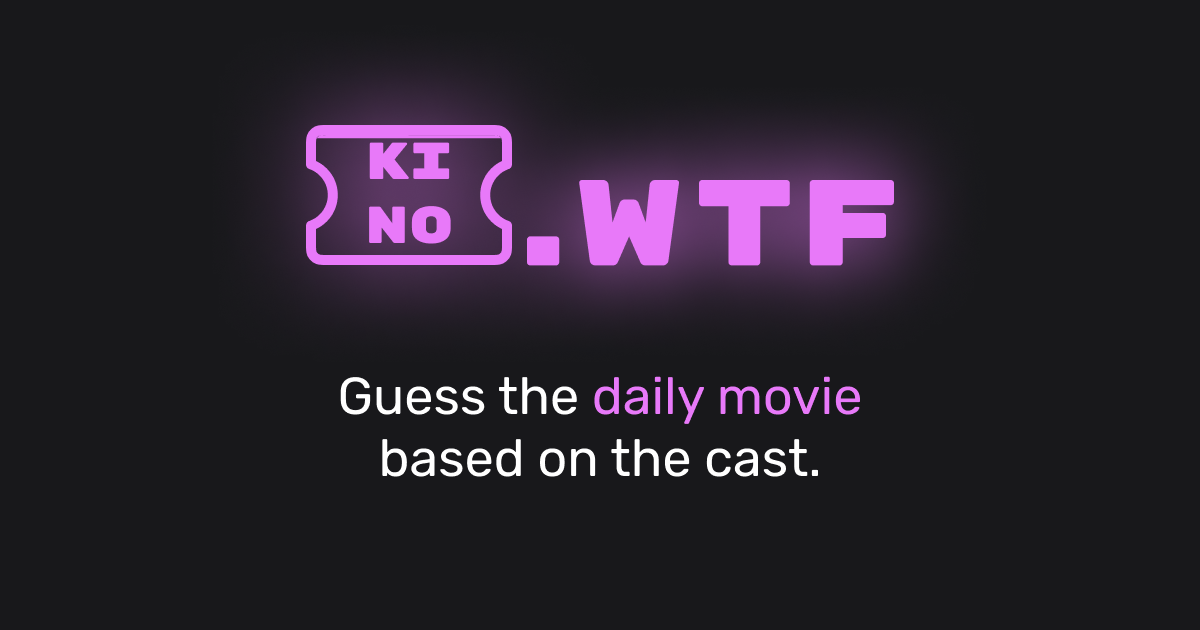
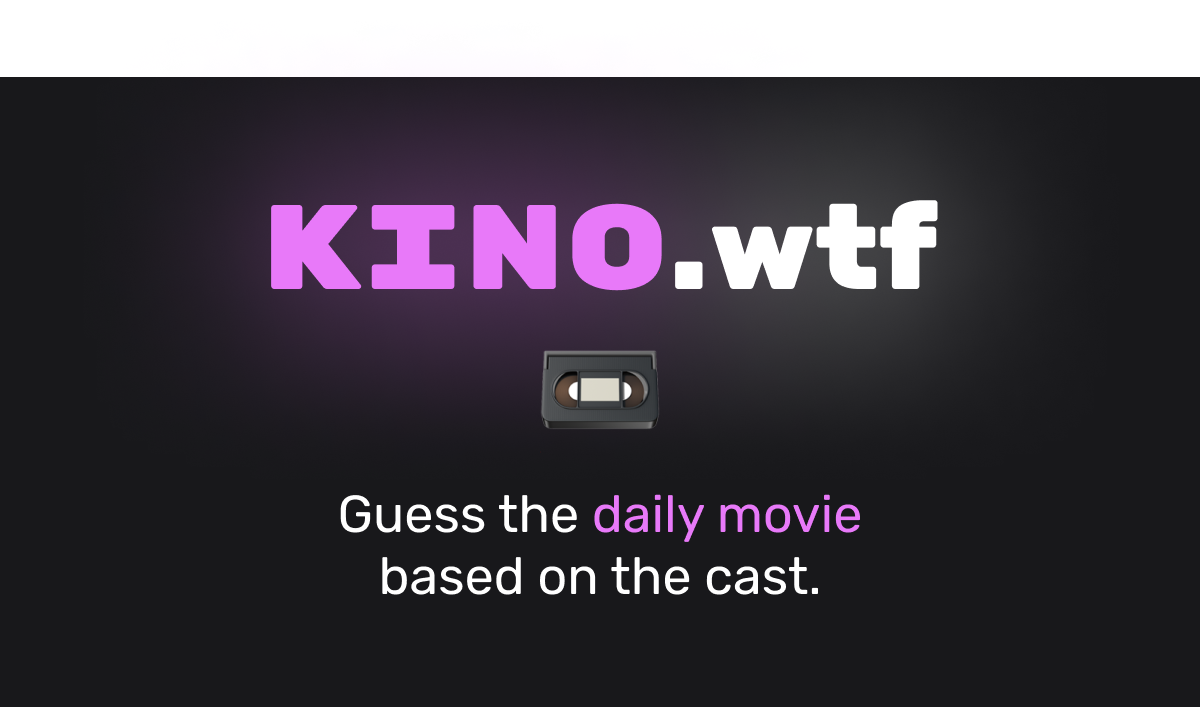
custom select

diff --git a/src/App.tsx b/src/App.tsx
@@ -1,60 +1,103 @@
-import { Show, For } from "solid-js"
+import { Show, For, createEffect, on } from "solid-js"
 import { createSignal } from "solid-js";
 
 import Modal from "./components/modal"
+import MovieSelect from "./components/movieSelect"
 import AboutIcon from "~icons/bx/bxs-info-circle"
 import InfoIcon from "~icons/bx/bxs-book-open"
-import GitHubIcon from "~icons/bx/bxl-github"
-import logo from "./assets/kino.svg"
 
 import movies from '../movie_notebook/movies.json'
-import { Select, createOptions } from "@thisbeyond/solid-select";
-// Import default styles. (All examples use this via a global import)
-import "@thisbeyond/solid-select/style.css";
-
-// Get all movie names
-const movieNames = movies.map(movie => movie.Name)
-
-export const MovieSelect = () => {
-  const props = createOptions(movieNames);
-  return <Select {...props} class="movieSelect" />;
-};
-
-// Choose movie based on client date
-const date = new Date()
-const day = date.getDate()
-const movie = movies[day % movies.length]
-
-// Set the film and hints
-const FILM = movie.Name
-const HINTS = movie.Actors
 
 function App() {
-  const [guesses, setGuesses] = createSignal<number>(0)
+  const [guess, setGuess] = createSignal<string>("")
+  const [guesses, setGuesses] = createSignal<string[]>([])
   const [success, setSuccess] = createSignal<boolean>(false)
 
-  function makeGuess() {
-    return (e: KeyboardEvent) => {
-      if (e.key === "Enter") {
-        const input = e.target as HTMLInputElement;
-        const guess = input.value.toLowerCase();
+  createEffect(on(guess, () => {
+    setGuesses(prev => [...prev, guess()]);
 
-        setGuesses((prev: number) => {
-          return prev + 1;
-        });
+    if (guess() === FILM.toLowerCase()) {
+      setSuccess(true);
+    }
+  }));
 
-        if (guess === FILM.toLowerCase()) {
-          setSuccess(true);
-        }
+  // Get all movie names
+  const movieNames = movies.map(movie => movie.Name + " (" + movie.Year + ")").sort()
 
-        if (guesses() == 6) {
-          input.disabled = true;
-          input.placeholder = "Better luck next time 😢";
-        }
+  // Choose movie based on client date
+  const date = new Date()
+  const day = date.getDate()
+  const movie = movies[day % movies.length]
 
-        input.value = "";
-      }
-    };
+  // Set the film and hints
+  const FILM = movie.Name
+  const HINTS = movie.Actors
+
+  const About = () => {
+    return <>
+      <p>
+        A game for film buffs and casual moviegoers alike. Inspired by wordle, but for movies.
+      </p>
+      <p>
+        Each day a new movie is chosen from a curated list, and the hints are based on the top 6 actors provided by the <a target="_blank" href="https://developer.themoviedb.org/reference/intro/getting-started">TMDB API</a>.
+      </p>
+      <p>
+        Built with <a target="_blank" href="https://solidjs.com/">SolidJS</a> and <a target="_blank" href="https://tailwindcss.com/">Tailwind CSS</a>.
+      </p>
+    </>
+  }
+
+  const Instructions = () => {
+    return <>
+      <ul>
+        <li>
+          Use the hints provided to guess a film.
+        </li>
+        <li>
+          If you guess incorrectly, another actor from the film will be revealed.
+        </li>
+        <li>
+          Leave the input blank to skip a guess and get the next hint.
+        </li>
+        <li>
+          You have 6 attempts to guess the film.
+        </li>
+      </ul>
+    </>
+  }
+
+  const Guesses = () => {
+    return <div class="flex flex-wrap gap-2">
+      <For each={guesses()}>
+        {(guess) => {
+          return (
+            <div class="p-2 bg-primary-700 rounded text-center shadow">
+              <p>{guess}</p>
+            </div>
+          );
+        }}
+      </For>
+    </div>
+  }
+  
+  const Success = () => {
+    return <>
+      <div class="p-2 bg-primary-800 rounded text-center w-full shadow">
+        🎉 You got it!
+      </div>
+      <p>Your guesses: </p>
+      <Guesses />
+    </>
+  }
+
+  const Failure = () => {
+    return <>
+      <div class="p-2 bg-primary-800 rounded text-center w-full shadow">
+        The answer was {FILM}. 😢 Better luck next time!
+      </div>
+      <p>Your guesses: </p>
+      <Guesses />
+    </>
   }
 
   return (
@@ -62,49 +105,28 @@ function App() {
       <div class="w-screen h-screen overflow-hidden bg-primary-900 text-primary-100">
         <div class="p-2 w-full md:w-1/2 xl:w-1/3 mx-auto flex flex-col gap-4">
           <div class="flex items-center gap-2">
-            <img src={logo} class="h-8" />
-            <h1 class="text-4xl font-bold text-center text-accent-400 font-display">kino</h1>
+            <h1 class="text-4xl font-bold text-center text-accent-400 font-display">
+              <span class="font-emoji">📼</span> KINO
+            </h1>
             <div class="flex gap-2 justify-center items-center ml-auto">
-              <a target="_blank" href="https://github.com/kaischuygon/actle"><GitHubIcon class="text-lg text-primary-100" /></a>
               <Modal Icon={AboutIcon} title="About" >
-                <p>
-                  A game for film buffs and casual moviegoers alike. Inspired by wordle, but for movies.
-                </p>
-                <p>
-                  Each day a new movie is chosen from a curated list, and the hints are based on the top 6 actors provided by the <a target="_blank" href="https://developer.themoviedb.org/reference/intro/getting-started">TMDB API</a>.
-                </p>
-                <p>
-                  All rights go to the rightful owners, this is just a fun project.
-                </p>
+                <About />
               </Modal>
               <Modal Icon={InfoIcon} title="How to play">
-                <ul>
-                  <li>
-                    Use the hints provided to guess a film.
-                  </li>
-                  <li>
-                    If you guess incorrectly, another actor from the film will be revealed.
-                  </li>
-                  <li>
-                    Leave the input blank to skip a guess and get the next hint.
-                  </li>
-                  <li>
-                    You have 6 attempts to guess the film.
-                  </li>
-                </ul>
+                <Instructions />
               </Modal>
             </div>
           </div>
-          
+
           <hr class="border-accent-400"/>
 
-          <Show when={guesses() == 6 || success() == true} fallback={
+          <Show when={guesses().length == 6 || success() == true} fallback={
             <>
               <For each={HINTS}>
                 {(hint, i) => {
                   return (
                     <Show
-                      when={i() <= guesses()}
+                      when={i() < guesses().length}
                       fallback={
                         <div class="p-2 bg-primary-800 rounded text-center w-full shadow">
                           <p>...</p>
@@ -120,22 +142,14 @@ function App() {
               </For>
         
               <hr class="border-accent-400" />
-              {/* <input
-                type="text"
-                class="w-full p-2 bg-primary-800 text-primary-100 mx-auto block rounded"
-                placeholder="🍿 Guess a movie..."
-                onkeypress={makeGuess()}
-              /> */}
-              <MovieSelect />
+              <MovieSelect guess={guess} setGuess={setGuess} options={movieNames} />
             </>
           }>
-            <div class="p-2 bg-primary-800 rounded text-center w-full shadow">
-              {
-                success() == true ?
-                  <p>🎉 You got it!</p> :
-                  <p>The answer was {FILM}. 😢 Better luck next time!</p>
-              }
-            </div>
+            {
+              success() == true ?
+                <Success /> :
+                <Failure />
+            }
           </Show>
         </div>
       </div>

diff --git a/src/components/movieSelect.tsx b/src/components/movieSelect.tsx
@@ -1,0 +1,80 @@
+import { Accessor, Component, createEffect, createMemo, createSignal, For, JSX, on, onMount, Setter, Show } from 'solid-js';
+
+import Fuse from 'fuse.js'
+
+const MovieSelect: Component<{
+  guess: Accessor<string>,
+  setGuess: Setter<string>,
+  options: Array<string>
+}> = (props) => {
+  const [text, setText] = createSignal('');
+  const [show, setShow] = createSignal(false);
+  const [selected, setSelected] = createSignal(0);
+
+  // Super simple fuzzy search using fuse.js
+  const fuse = new Fuse(props.options, {threshold: 0.2})
+  const filteredOptions = () => fuse.search(text()).map(el => el.item);
+    
+
+  const isVisible = createMemo(() => {
+    return show() && (filteredOptions().length > 1 || filteredOptions()[0] !== text());
+  });
+
+  createEffect(on(text, () => {
+    setSelected(0);
+  }));
+
+  createEffect(on(props.guess, () => {
+    setText('')
+    setShow(false)
+  }));
+
+  onMount(() => {
+    document.getElementById('movieSelectInput')?.focus()
+  });
+
+  const handleInput: JSX.EventHandlerUnion<HTMLInputElement, InputEvent> = (event) => {
+    setText(event.currentTarget.value);
+  };
+
+  const handleKeydown: JSX.EventHandler<HTMLInputElement, KeyboardEvent> = (event) => {
+    if (event.code === 'ArrowUp') {
+      setSelected(prev => prev === 0 ? (filteredOptions().length - 1) : prev - 1);
+    } else if (event.code === 'ArrowDown') {
+      setSelected(prev => prev + 1 === filteredOptions().length ? 0 : prev + 1);
+    } else if (event.code === 'Tab') {
+      setText(filteredOptions()[selected()]);
+      // prevent default tab behaviour
+      event.preventDefault();
+    } else if (event.code === 'Enter') {
+      const input = document.getElementById('movieSelectInput') as HTMLInputElement;
+      setText(filteredOptions()[selected()] ? filteredOptions()[selected()] : input.value);
+      props.setGuess(text());
+    } 
+    setShow(true);
+  }
+
+  return (
+    <div>
+      <input
+        type="text"
+        placeholder="🍿 Guess a movie..."
+        class="w-full p-2 bg-primary-800 text-primary-100 mx-auto block rounded"
+        value={text()}
+        onInput={handleInput}
+        onKeyDown={handleKeydown}
+        onBlur={() => setShow(false)}
+        id='movieSelectInput'
+      />
+      <Show when={isVisible()}>
+        <ul class="outline outline-1 outline-accent-300 rounded max-h-48 overflow-y-auto w-full overflow-x-clip">
+          <For each={filteredOptions()}>
+            {(item, i) => <li class={ selected() === i() ? 'p-2 bg-primary-700': 'p-2'}>{item}</li>}
+          </For>
+        </ul>
+      </Show>
+    </div>
+  );
+};
+
+export default MovieSelect;

diff --git a/src/components/modal.tsx b/src/components/modal.tsx
@@ -1,4 +1,5 @@
-import { createSignal } from "solid-js";
+  import { createSignal } from "solid-js";
+import GitHubIcon from "~icons/bx/bxl-github"
 import CloseIcon from "~icons/bx/bx-x";
 
 function Modal({ children, Icon, title }: { children:any , Icon?:any, title:string }) {
@@ -38,8 +39,22 @@ function Modal({ children, Icon, title }: { children:any , Icon?:any, title:stri
                 
                 <hr class="border-accent-400"/>
                 
-                <div class="flex text-sm text-primary-300 m-4 gap-2 justify-between">
+                <div class="flex text-sm text-primary-300 m-4 gap-2 justify-center">
                   <p>Made by <a target="_blank" href="https://kaischuyler.com">Kai Schuyler</a></p>
+                  <span>·</span>
+                  <span>
+                    <span>☕ </span>
+                    <a href="https://www.buymeacoffee.com/kaischuyler" target="_blank">
+                      Buy me a coffee
+                    </a>
+                  </span>
+                  <span>·</span>
+                  <span class="inline">
+                    <GitHubIcon class="text-primary-100 inline mr-1" />
+                    <a target="_blank" href="https://github.com/kaischuygon/kino.wtf">
+                      source
+                    </a>
+                  </span>
                 </div>
               </div>
             </div>

diff --git a/src/index.css b/src/index.css
@@ -1,4 +1,4 @@
-@import url('https://fonts.googleapis.com/css2?family=Rubik+Mono+One&family=Rubik:ital,wght@0,300;0,400;0,500;0,600;0,700;0,800;0,900;1,300;1,400;1,500;1,600;1,700;1,800;1,900&display=swap');
+@import url('https://fonts.googleapis.com/css2?family=Rubik+Mono+One&family=Noto+Color+Emoji&family=Rubik:ital,wght@0,300;0,400;0,500;0,600;0,700;0,800;0,900;1,300;1,400;1,500;1,600;1,700;1,800;1,900&display=swap');
 
 @tailwind base;
 @tailwind components;
@@ -20,15 +20,18 @@ a {
   @apply w-full p-2 bg-primary-800 text-primary-100 mx-auto block rounded;
 }
 
-.movieSelect .solid-select-control {
-  /* @apply bg-primary-900 p-2; */
+.solid-select-list {
+  @apply outline outline-1 outline-accent-300 rounded h-48 overflow-y-auto w-full overflow-x-clip;
 }
+
 .movieSelect .solid-select-option {
-  @apply p-2;
+  @apply p-2 w-full break-words;
 }
+
 .movieSelect .solid-select-option:hover {
   @apply bg-primary-800;
 }
+
 .movieSelect .solid-select-option[data-focused=true] {
   @apply bg-primary-800;
 }

diff --git a/index.html b/index.html
@@ -3,10 +3,9 @@
   <head>
     <meta charset="UTF-8" />
     <link rel="icon" href="/favicon.ico" sizes="any">
-    <link rel="icon" href="/favicon.svg" type="image/svg+xml">
+    <!-- <link rel="icon" href="/favicon.svg" type="image/svg+xml"> -->
     <meta name="theme-color" content="#e879f9">
     <meta name="viewport" content="width=device-width, initial-scale=1.0" />
-    <script data-name="BMC-Widget" data-cfasync="false" src="https://cdnjs.buymeacoffee.com/1.0.0/widget.prod.min.js" data-id="kaischuyler" data-description="Support me on Buy me a coffee!" data-message="" data-color="#e879f9" data-position="Right" data-x_margin="18" data-y_margin="18"></script>
     <title>kino.wtf</title>
     <meta name="description" content="A daily game where you guess the movie based on the cast." />
     <meta property="og:title" content="kino.wtf" />

diff --git a/tailwind.config.js b/tailwind.config.js
@@ -19,6 +19,7 @@ export default {
       fontFamily: {
         display: ['Rubik Mono One', ...defaultTheme.fontFamily.sans],
         sans: ['Rubik', ...defaultTheme.fontFamily.sans],
+        // emoji: ['Noto Color Emoji', ...defaultTheme.fontFamily.sans]
       },
       typography: () => ({
         accent: {
